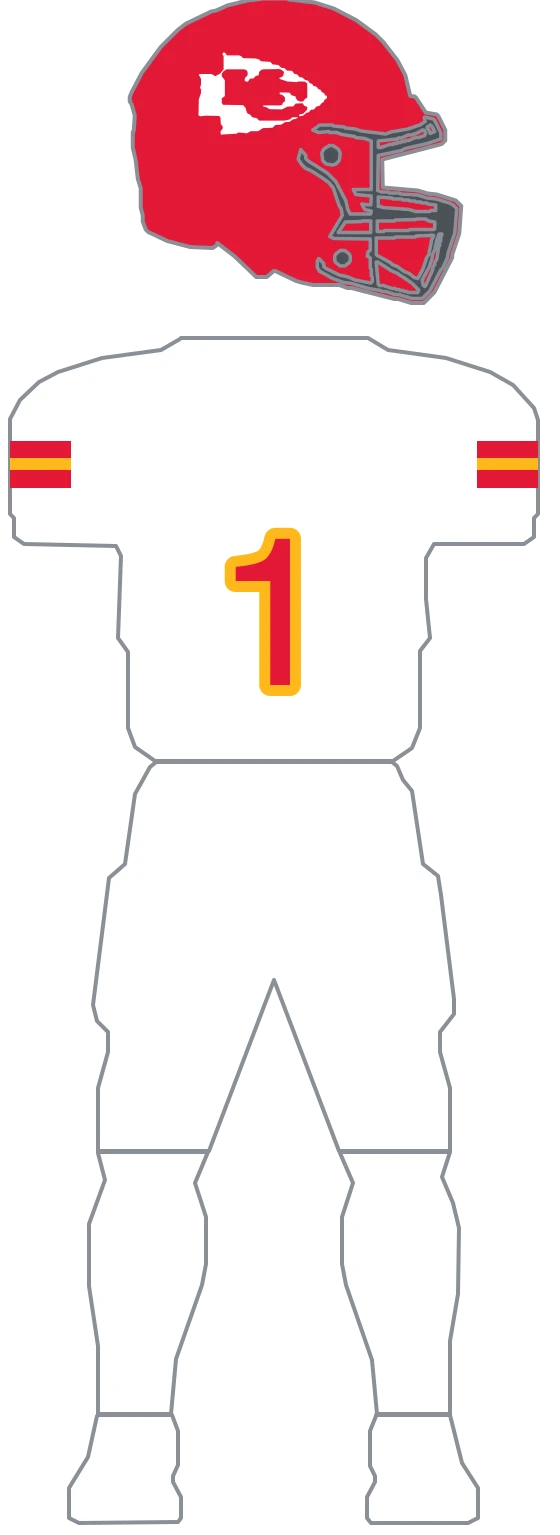
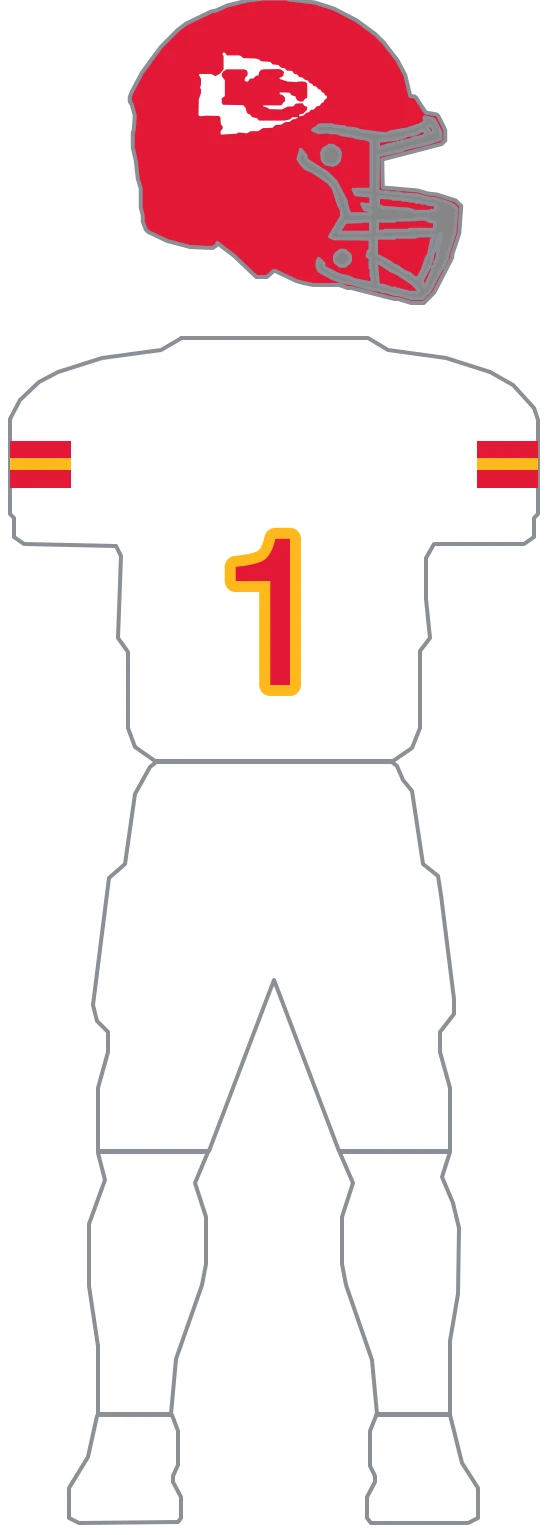
feat(uniforms): migrate Chiefs to composable parts and set its grey facemask (#670)
Both Kansas City kits wear the same red shell (with the white arrowhead
decal) and the same white pants; only the jersey differs — a red body at home
vs a white body away, with the middle sleeve band gold in both and the outer
bands taking the jersey body's contrast (white at home, red away). The flat
definition reached the shared shell via a per-kit 'secondary' override and the
pants via a white literal, four spellings of two physical objects. Parts make
each kit a combination: 1 helmet (H1 red shell + arrowhead), 2 jerseys (J1
red, J2 white), 1 pants (P1 white), matching the measured target.

The migration's parity gate proved all 6 chiefs rasters (2 kits x 2 variants)
byte-identical against the flat definition, then the flat definition and its
builder helpers were deleted and the team removed from MIGRATED, per the
one-time-proof lifecycle (depth#660).

Facemask follows the parts migration per phase order: the Chiefs' documented
light-grey cage reads as #868686 in the GUD composite (both archived helmets),
and the shared neutral #4b5158 it replaces is a darker grey than the real
cage. Only the two -full rasters move, and the change is confined to the
helmet region (verified pixel-diffed).

diff --git a/lib/uniforms/teams/chiefs.parts.ts b/lib/uniforms/teams/chiefs.parts.ts
@@ -1,0 +1,112 @@
+// Kansas City authored as composable parts. Geometry is imported unchanged from chiefs.ts — this
+// file only restates WHICH parts each kit combines, and names every color from the team palette
+// instead of the kit row's shifting primary/secondary/accent.
+//
+// What the flat definition was hiding: both Chiefs kits wear the SAME red shell with the white
+// arrowhead decal, and the SAME white pants — the away flat form reached the red shell through a
+// 'secondary' override and home the pants through a white literal, four different spellings of
+// two physical objects. Only the jersey actually differs: a red body at home vs a white body away,
+// with the middle sleeve band gold in both and the outer bands taking the jersey body's contrast
+// (white at home, red away).
+
+import {
+  CHIEFS_DECAL_ARROWHEAD_PATH,
+  CHIEFS_SLEEVE_X_LEFT,
+  CHIEFS_SLEEVE_X_RIGHT,
+  CHIEFS_STRIPE_BOUNDS,
+} from './chiefs';
+import { compileParts, type PartLayer, type TeamPartsDefinition, type UniformPart } from './parts';
+import type { UniformSurface } from './types';
+
+// Three bands at the end of each sleeve: outer bands top and bottom in `outer`, one `middle`
+// band between them. Mirrored across the jersey centerline, matching the flat form.
+function sleeveStripes(outer: string, middle: string): PartLayer[] {
+  const out: PartLayer[] = [];
+  const sides: [UniformSurface, number[]][] = [
+    ['sleeve-left', CHIEFS_SLEEVE_X_LEFT],
+    ['sleeve-right', CHIEFS_SLEEVE_X_RIGHT],
+  ];
+  for (let i = 0; i < CHIEFS_STRIPE_BOUNDS.length - 1; i += 1) {
+    const top = CHIEFS_STRIPE_BOUNDS[i];
+    const bottom = CHIEFS_STRIPE_BOUNDS[i + 1];
+    for (const [surface, [x0, x1]] of sides) {
+      const side = surface === 'sleeve-left' ? 'left' : 'right';
+      out.push({
+        id: `chiefs-sleeve-band-${i}-${side}`,
+        surface,
+        d: `M${x0},${top} H${x1} V${bottom} H${x0} Z`,
+        clip: true,
+        kind: 'fill',
+        fill: i === 1 ? middle : outer,
+      });
+    }
+  }
+  return out;
+}
+
+// The red shell with the white arrowhead decal — one object, shared by both kits. The arrowhead
+// is a white region whose counters let the shell read through, so only the white is traced (see
+// chiefs.ts); the shell color behind it is the part's base.
+//
+// Grey cage, sampled from the GUD helmet composite (nfl-uniform-refs/chiefs): the facemask bar
+// reads #868686 against the red shell / white background, on both archived helmets. Matches the
+// documented light-grey cage (Riddell light-gray facemask); the shared neutral #4b5158 it
+// replaces is a darker grey than the real cage.
+const HELMET_RED_ARROWHEAD: UniformPart = {
+  base: 'red',
+  facemask: 'grey',
+  layers: [
+    {
+      id: 'chiefs-decal-arrowhead',
+      surface: 'helmet' as const,
+      d: CHIEFS_DECAL_ARROWHEAD_PATH,
+      clip: true,
+      kind: 'fill',
+      fill: 'white',
+    },
+  ],
+};
+
+// Home jersey: red body, white outer sleeve bands with a gold middle, white numerals ringed gold.
+const JERSEY_RED: UniformPart = {
+  base: 'red',
+  layers: sleeveStripes('white', 'gold'),
+  number: { fill: 'white', outline: 'gold', outlineWidth: 22 },
+};
+
+// Away jersey: white body, red outer sleeve bands with a gold middle, red numerals ringed gold.
+const JERSEY_WHITE: UniformPart = {
+  base: 'white',
+  layers: sleeveStripes('red', 'gold'),
+  number: { fill: 'red', outline: 'gold', outlineWidth: 22 },
+};
+
+// Plain white pants, shared by both kits. Home reaches this through a white literal in the flat
+// form (its palette is red over gold), away through its primary; here it is one palette entry.
+const PANTS_WHITE: UniformPart = { base: 'white', layers: [] };
+
+export const CHIEFS_PARTS: TeamPartsDefinition = {
+  teamId: 'chiefs',
+  // Jersey hexes from the curated rows (teamcolorcodes) — the same three the rows carry across
+  // the two kits, with gold occupying both secondary and accent on the home row.
+  palette: {
+    red: '#E31837',
+    gold: '#FFB81C',
+    white: '#FFFFFF',
+    // The facemask cage grey — no token in the red/gold Chiefs palette. Sampled from the GUD
+    // helmet composite (see the helmet part note); matches the documented light-grey cage.
+    grey: '#868686',
+  },
+  helmets: { 'red-arrowhead': HELMET_RED_ARROWHEAD },
+  jerseys: {
+    red: JERSEY_RED,
+    white: JERSEY_WHITE,
+  },
+  pants: { white: PANTS_WHITE },
+  kits: {
+    home: { helmet: 'red-arrowhead', jersey: 'red', pants: 'white' },
+    away: { helmet: 'red-arrowhead', jersey: 'white', pants: 'white' },
+  },
+};
+
+export const CHIEFS_UNIFORMS_FROM_PARTS = compileParts(CHIEFS_PARTS);

diff --git a/lib/uniforms/teams/chiefs.ts b/lib/uniforms/teams/chiefs.ts
@@ -1,18 +1,7 @@
-import type { ColorRef, TeamUniformDefinition, UniformLayer, UniformSurface } from './types';
-
-// Kansas City's two archived kits, redrawn from the Gridiron Uniform Database 2025 composite in
-// nfl-uniform-refs/chiefs (home is that sheet's row-1 figure 5, away its row-1 figure 1; the other
-// figures are pant combinations, not separate kits). Sleeve paths use the outer 588-wide mannequin
-// space; the helmet decal stays in raw helmet coordinates (x:139-802, y:65-674). Right paths mirror
-// the left across the centerline x=294 (mirroredX = 588 - x).
-//
-// Both kits are one construction with the tokens swapped: a bare red shell carrying only the
-// arrowhead, a three-band set at the end of each sleeve, and boldly trimmed numerals. No helmet
-// stripe, no collar trim, and no pant stripe — the reference's white pants are unbroken, and the
-// red/gold striping in the swatch beside each figure is the sock, not the pant.
-//
-// Out of scope on both kits: the chest wordmark, the league shield, and the AFL/anniversary patches
-// the reference shows on the chest.
+// Kansas City's construction geometry — the arrowhead decal and the sleeve-band constants only.
+// The composable parts definition that consumes them lives in ./chiefs.parts.ts; the former flat
+// CHIEFS_UNIFORMS was deleted in the migration that proved parts render byte-identically (see
+// parts-parity.test.ts for the one-time gate).
 
 // White is a literal on the home kit. Its palette is red over gold with accent === secondary (ESPN
 // supplies only two colors), so no token resolves to the pants, the outer sleeve bands or the
@@ -36,78 +25,3 @@ export const CHIEFS_DECAL_ARROWHEAD_PATH =
 export const CHIEFS_STRIPE_BOUNDS = [486, 503, 515, 533];
 export const CHIEFS_SLEEVE_X_LEFT = [30, 91];
 export const CHIEFS_SLEEVE_X_RIGHT = [497, 558];
-
-const GENERIC_STRIPPED = [
-  'generic-helmet-stripe',
-  'generic-sleeve-yoke-left',
-  'generic-sleeve-yoke-right',
-  'generic-sleeve-stripe-left',
-  'generic-sleeve-stripe-right',
-  'generic-collar',
-  'generic-pants-stripe-left',
-  'generic-pants-stripe-right',
-];
-
-// Outer bands top and bottom, one gold band between them — white-on-gold at home, red-on-gold away.
-function sleeveStripes(outer: ColorRef, middle: ColorRef): UniformLayer[] {
-  const out: UniformLayer[] = [];
-  const sides: [UniformSurface, number[]][] = [
-    ['sleeve-left', CHIEFS_SLEEVE_X_LEFT],
-    ['sleeve-right', CHIEFS_SLEEVE_X_RIGHT],
-  ];
-
-  for (let i = 0; i < CHIEFS_STRIPE_BOUNDS.length - 1; i += 1) {
-    const top = CHIEFS_STRIPE_BOUNDS[i];
-    const bottom = CHIEFS_STRIPE_BOUNDS[i + 1];
-    for (const [surface, [x0, x1]] of sides) {
-      const side = surface === 'sleeve-left' ? 'left' : 'right';
-      out.push({
-        id: `chiefs-sleeve-band-${i}-${side}`,
-        surface,
-        d: `M${x0},${top} H${x1} V${bottom} H${x0} Z`,
-        clip: true,
-        kind: 'fill',
-        fill: i === 1 ? middle : outer,
-      });
-    }
-  }
-
-  return out;
-}
-
-function arrowhead(): UniformLayer[] {
-  return [
-    {
-      id: 'chiefs-decal-arrowhead',
-      surface: 'helmet',
-      d: CHIEFS_DECAL_ARROWHEAD_PATH,
-      clip: true,
-      kind: 'fill',
-      fill: CHIEFS_WHITE,
-    },
-  ];
-}
-
-export const CHIEFS_UNIFORMS: TeamUniformDefinition = {
-  teamId: 'chiefs',
-  // The red shell, its arrowhead and the stripped generic model are shared; only the body color and
-  // which token carries red differ between the kits.
-  defaults: { removeLayerIds: GENERIC_STRIPPED, layers: arrowhead() },
-  kits: {
-    // Red body over white pants. Both the numeral face and the outer sleeve bands are white, which
-    // this palette cannot supply, so both take the literal.
-    home: {
-      pantsColor: CHIEFS_WHITE,
-      layers: sleeveStripes(CHIEFS_WHITE, 'secondary'),
-      number: { fill: CHIEFS_WHITE, outline: 'secondary', outlineWidth: 22 },
-    },
-    // White body and pants under the same red shell. The away palette moves white into primary and
-    // red into secondary, so the bands and the numeral face swap onto the inverse tokens and gold
-    // moves from secondary to accent.
-    away: {
-      helmetColor: 'secondary',
-      layers: sleeveStripes('secondary', 'accent'),
-      number: { fill: 'secondary', outline: 'accent', outlineWidth: 22 },
-    },
-  },
-};

diff --git a/lib/uniforms/teams/index.ts b/lib/uniforms/teams/index.ts
@@ -7,7 +7,7 @@ import { BROWNS_UNIFORMS } from './browns';
 import { BUCCANEERS_UNIFORMS } from './buccaneers';
 import { CARDINALS_UNIFORMS } from './cardinals';
 import { CHARGERS_UNIFORMS } from './chargers';
-import { CHIEFS_UNIFORMS } from './chiefs';
+import { CHIEFS_UNIFORMS_FROM_PARTS } from './chiefs.parts';
 import { COLTS_UNIFORMS } from './colts';
 import { COMMANDERS_UNIFORMS } from './commanders';
 import { COWBOYS_UNIFORMS } from './cowboys';
@@ -46,7 +46,7 @@ const DEFINITIONS: Readonly<Partial<Record<string, TeamUniformDefinition>>> = {
   buccaneers: BUCCANEERS_UNIFORMS,
   cardinals: CARDINALS_UNIFORMS,
   chargers: CHARGERS_UNIFORMS,
-  chiefs: CHIEFS_UNIFORMS,
+  chiefs: CHIEFS_UNIFORMS_FROM_PARTS,
   colts: COLTS_UNIFORMS,
   commanders: COMMANDERS_UNIFORMS,
   cowboys: COWBOYS_UNIFORMS,
